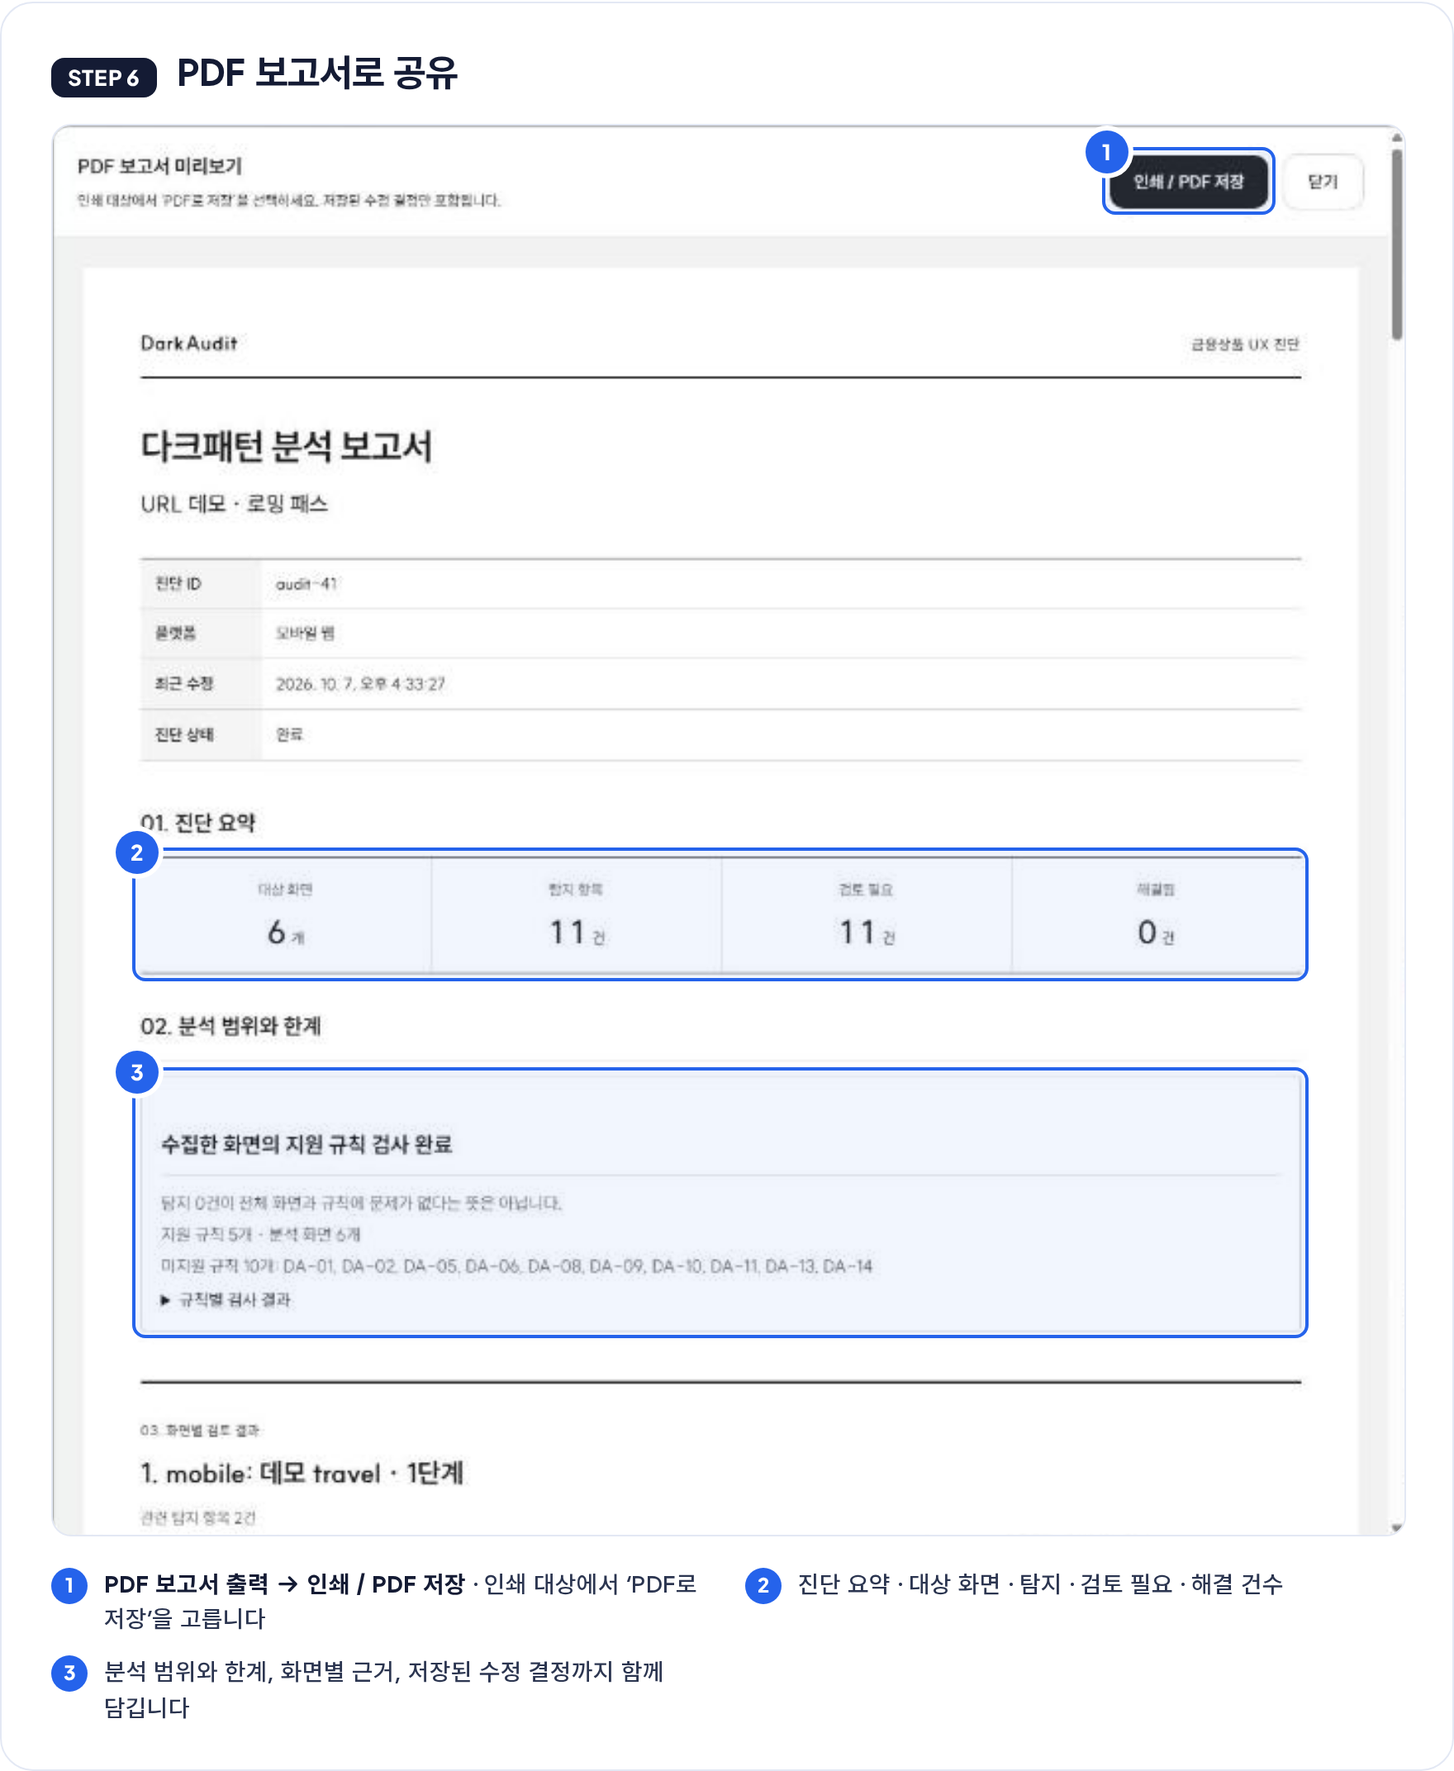
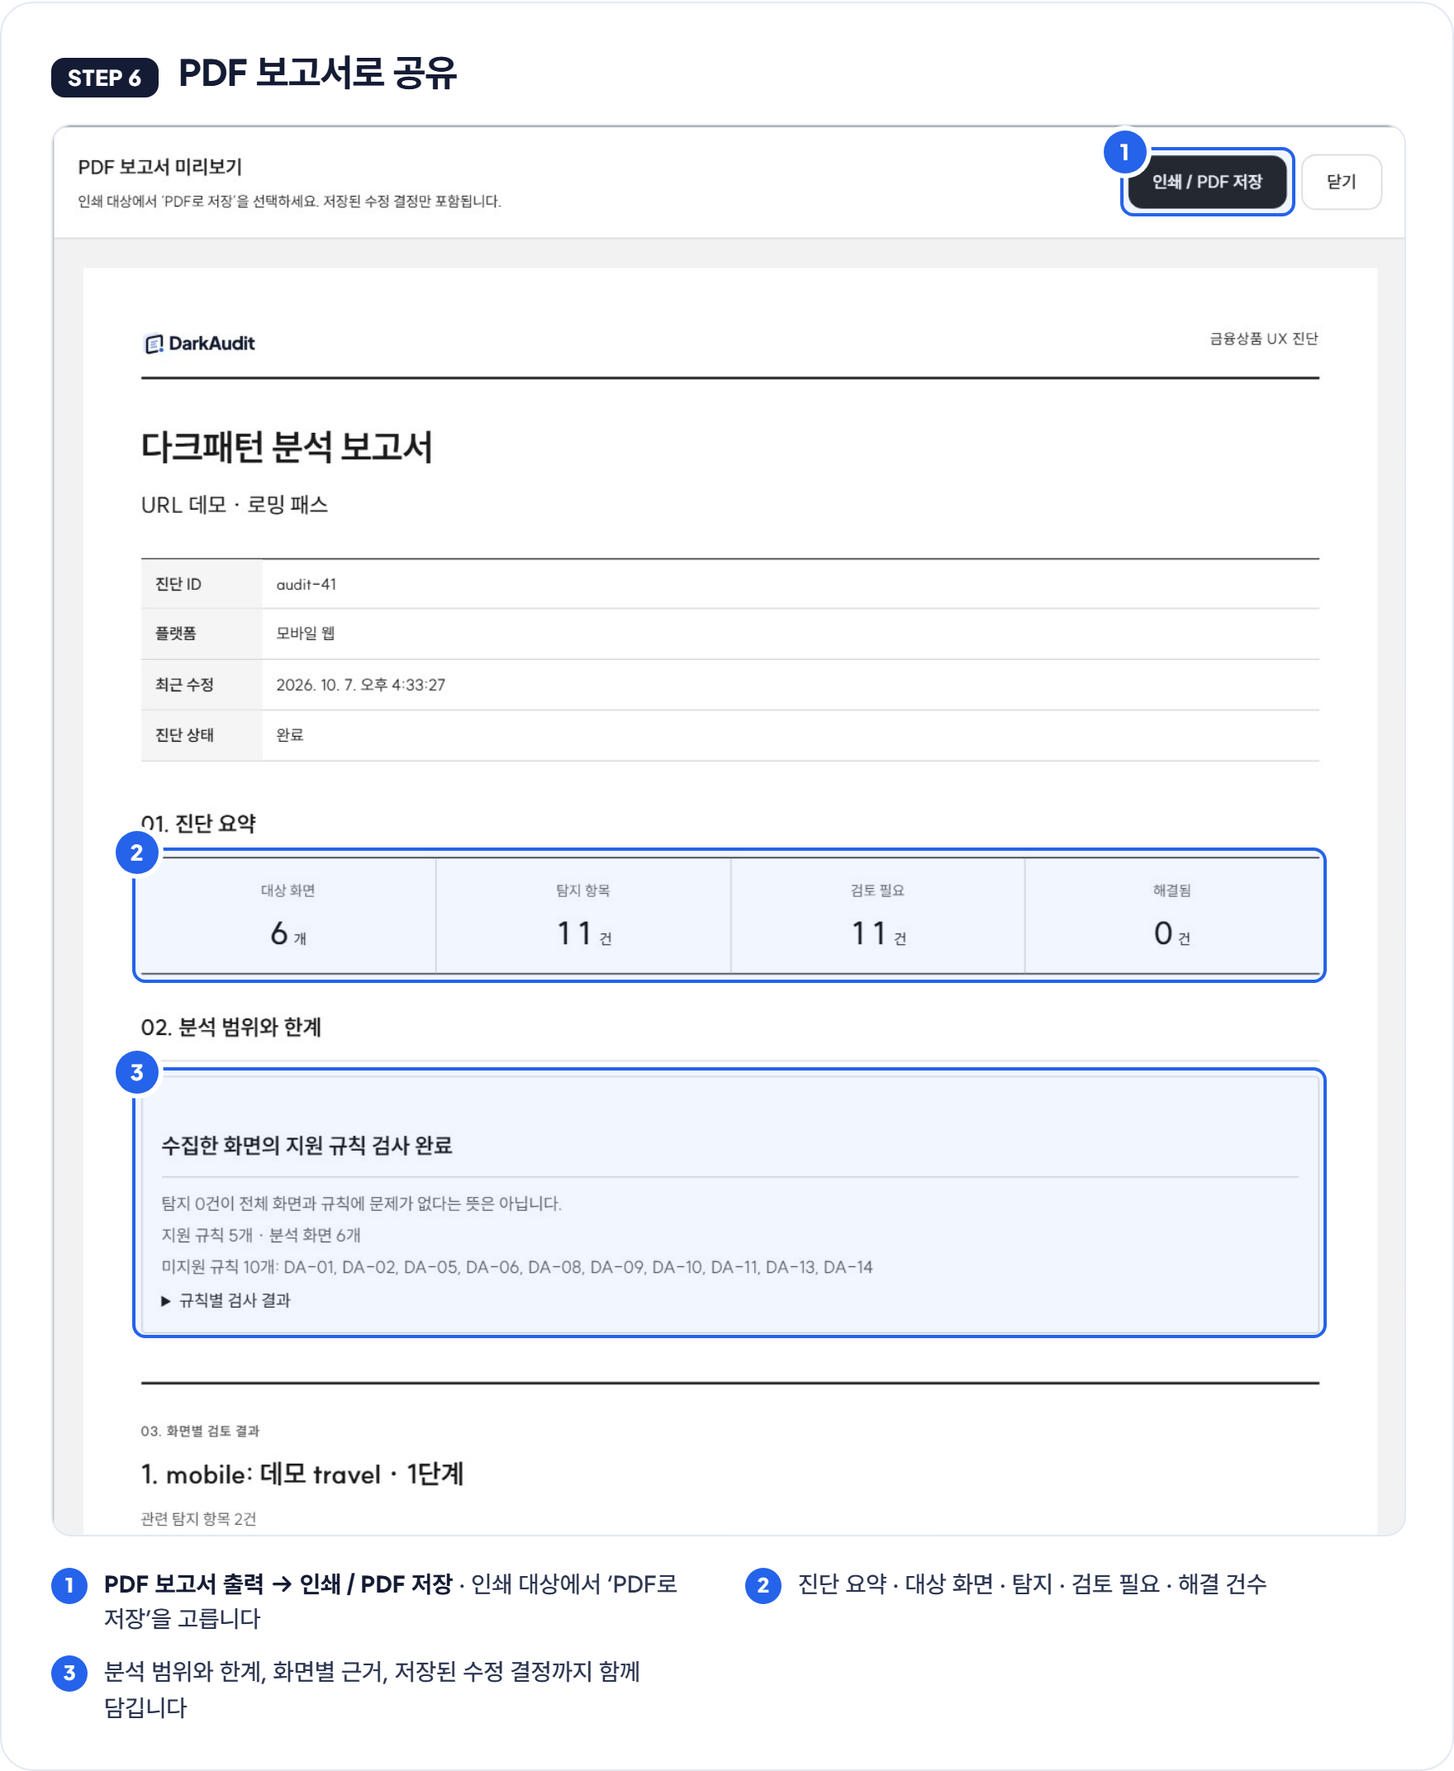
docs: README 첫 화면 순서를 바꾸고 STEP 6을 새 로고로 재캡처한다
- 첫 화면을 배너 → 버튼 → 기술 배지 → 문제와 해결 표 → NOTE 순으로 바꾼다.
- STEP 6 원본(shots/s6.jpg)을 배포 서비스 audit-41의 PDF 보고서 미리보기로
  같은 영역·2배율(3136x1556)로 다시 찍는다. 머리글에 새 로고가 보인다.
- 새 화면에 맞춰 steps.py의 s6 강조 박스 좌표만 고치고 step6.png를 다시 만든다.

diff --git a/docs/design/readme-assets/steps.html b/docs/design/readme-assets/steps.html
@@ -95,4 +95,4 @@ body{background:transparent;font-family:J,W,sans-serif;color:var(--navy);word-br
 .sh{display:flex;align-items:baseline;gap:12px;margin-bottom:16px}
 .sh .no{font-family:J;font-weight:800;font-size:13px;color:#fff;background:var(--navy);border-radius:8px;padding:4px 10px;letter-spacing:.04em}
 .sh .tt{font-family:W;font-weight:700;font-size:23px;letter-spacing:-0.02em}
-</style></head><body><section class="a st" id="step1"><div class="card"><div class="sh"><span class="no">STEP 1</span><span class="tt">새 진단 만들기</span></div><div class="shot" style="width:820px;height:668.1px"><img src="shots/s1.jpg" style="position:absolute;left:-455.6px;top:-60.7px;width:1587.4px;max-width:none"><div class="hl" style="left:11.1px;top:150.8px;width:793.7px;height:219.7px"><b>1</b></div><div class="hl" style="left:11.1px;top:395.8px;width:263.2px;height:260.2px"><b>2</b></div><div class="hl" style="left:312.8px;top:472.8px;width:471.8px;height:68.8px"><b>3</b></div></div><div class="notes"><div class="note"><i>1</i><span>처음이라면 <b>입력 유형별 데모 체험</b>으로 원본 검사 → 수정본 검사 → 전후 비교를 먼저 둘러보세요</span></div><div class="note"><i>2</i><span><b>진단 이름</b>과 <b>상품 유형</b>을 입력합니다 (예: 반려동물 보험 가입 화면 1차)</span></div><div class="note"><i>3</i><span>입력 방식을 고릅니다 · <b>웹사이트 · Figma · Android 앱 · 스크린샷</b></span></div></div></div></section><section class="a st" id="step2"><div class="card"><div class="sh"><span class="no">STEP 2</span><span class="tt">화면 등록하고 분석 시작</span></div><div class="shot" style="width:820px;height:713.7px"><img src="shots/s2.jpg" style="position:absolute;left:-455.6px;top:-20.2px;width:1587.4px;max-width:none"><div class="hl" style="left:667.1px;top:322.9px;width:113.4px;height:60.7px"><b>1</b></div><div class="hl" style="left:312.8px;top:516.3px;width:471.8px;height:128.6px"><b>2</b></div><div class="hl" style="left:687.4px;top:678.3px;width:117.4px;height:27.3px"><b>3</b></div></div><div class="notes"><div class="note"><i>1</i><span>스크린샷으로 점검할 때는 <b>스크린샷</b>을 선택합니다</span></div><div class="note"><i>2</i><span>가입 순서대로 <b>1~6장</b> 등록 · PNG·JPG·WEBP, 장당 10MB 이하 · 등록 후에는 순서를 바꿀 수 없어요</span></div><div class="note"><i>3</i><span><b>분석 시작하기</b>를 누르면 진행 화면에서 수집·분석 상태를 볼 수 있습니다</span></div></div></div></section><section class="a st" id="step3"><div class="card"><div class="sh"><span class="no">STEP 3</span><span class="tt">결과 요약 보기</span></div><div class="shot" style="width:820px;height:485.9px"><img src="shots/s3.jpg" style="position:absolute;left:-455.6px;top:-40.5px;width:1587.4px;max-width:none"><div class="hl" style="left:11.1px;top:119.5px;width:793.7px;height:42.5px"><b>1</b></div><div class="hl" style="left:11.1px;top:174.1px;width:793.7px;height:95.2px"><b>2</b></div><div class="hl" style="left:11.1px;top:283.5px;width:793.7px;height:60.7px"><b>3</b></div><div class="hl" style="left:11.1px;top:408.0px;width:793.7px;height:71.9px"><b>4</b></div></div><div class="notes"><div class="note"><i>1</i><span><b>원본 검사 → 수정본 검사 → 전후 비교</b> 순서로 진행 단계가 표시됩니다</span></div><div class="note"><i>2</i><span>검토 후보 · 검토 필요 · 해결 표시 · 등록 화면 수를 한눈에 확인</span></div><div class="note"><i>3</i><span><b>검사 범위와 추가 확인 사항</b>을 먼저 읽으세요 · 미지원 규칙과 근거 부족 항목이 여기 나옵니다</span></div><div class="note"><i>4</i><span>화면 흐름에서 화면을 고르면 그 화면의 후보만 볼 수 있습니다</span></div></div></div></section><section class="a st" id="step4"><div class="card"><div class="sh"><span class="no">STEP 4</span><span class="tt">화면 근거 확인하고 검토 기록 남기기</span></div><div class="shot" style="width:820px;height:653.0px"><img src="shots/s4.jpg" style="position:absolute;left:-455.6px;top:-91.1px;width:1587.4px;max-width:none"><div class="hl" style="left:109.3px;top:463.7px;width:218.7px;height:40.5px"><b>1</b></div><div class="hl" style="left:444.4px;top:224.7px;width:344.2px;height:143.8px"><b>2</b></div><div class="hl" style="left:444.4px;top:521.4px;width:344.2px;height:66.8px"><b>3</b></div><div class="hl" style="left:730.9px;top:166.0px;width:40.5px;height:24.3px"><b>4</b></div></div><div class="notes"><div class="note"><i>1</i><span>항목을 고르면 <b>화면 위 위치</b>가 강조됩니다</span></div><div class="note"><i>2</i><span><b>WHERE · OBSERVATION · RULE · WHY</b> · 어디서 무엇을 보고 어떤 기준으로 판단했는지</span></div><div class="note"><i>3</i><span><b>FIX</b> · 문구·선택 상태·정보 공개 방식을 어떻게 바꿀지 개선 권고안</span></div><div class="note"><i>4</i><span>처리 상태 <b>미검토 → 검토 중 → 해결됨</b>과 수정 결정 메모를 남깁니다</span></div></div></div></section><section class="a st" id="step5"><div class="card"><div class="sh"><span class="no">STEP 5</span><span class="tt">수정본 재검사</span></div><div class="shot" style="width:820px;height:556.8px"><img src="shots/s5.jpg" style="position:absolute;left:-455.6px;top:-40.5px;width:1587.4px;max-width:none"><div class="hl" style="left:277.4px;top:119.5px;width:261.2px;height:42.5px"><b>1</b></div><div class="hl" style="left:11.1px;top:187.3px;width:391.8px;height:292.6px"><b>2</b></div><div class="hl" style="left:414.0px;top:187.3px;width:390.8px;height:292.6px"><b>3</b></div><div class="hl" style="left:697.5px;top:502.1px;width:99.2px;height:34.4px"><b>4</b></div></div><div class="notes"><div class="note"><i>1</i><span>결과 화면에서 <b>수정본 검사</b> 탭을 엽니다</span></div><div class="note"><i>2</i><span>원본에서 찾은 항목이 유형별로 정리되어 있습니다</span></div><div class="note"><i>3</i><span>같은 순서·단계명으로 <b>수정본 화면</b>을 등록합니다</span></div><div class="note"><i>4</i><span><b>수정본 검사 시작</b> → 같은 진단에 새 회차로 저장되고, <b>전후 비교</b>에서 결과를 봅니다</span></div></div></div></section><section class="a st" id="step6"><div class="card"><div class="sh"><span class="no">STEP 6</span><span class="tt">PDF 보고서로 공유</span></div><div class="shot" style="width:820px;height:854.7px"><img src="shots/s6.jpg" style="position:absolute;left:-522.4px;top:-37.1px;width:1874.3px;max-width:none"><div class="hl" style="left:634.7px;top:13.1px;width:105.2px;height:40.6px"><b>1</b></div><div class="hl" style="left:47.8px;top:437.5px;width:712.4px;height:80.1px"><b>2</b></div><div class="hl" style="left:47.8px;top:570.2px;width:712.4px;height:163.8px"><b>3</b></div></div><div class="notes"><div class="note"><i>1</i><span><b>PDF 보고서 출력 → 인쇄 / PDF 저장</b> · 인쇄 대상에서 ‘PDF로 저장’을 고릅니다</span></div><div class="note"><i>2</i><span>진단 요약 · 대상 화면 · 탐지 · 검토 필요 · 해결 건수</span></div><div class="note"><i>3</i><span>분석 범위와 한계, 화면별 근거, 저장된 수정 결정까지 함께 담깁니다</span></div></div></div></section></body></html>
+</style></head><body><section class="a st" id="step1"><div class="card"><div class="sh"><span class="no">STEP 1</span><span class="tt">새 진단 만들기</span></div><div class="shot" style="width:820px;height:668.1px"><img src="shots/s1.jpg" style="position:absolute;left:-455.6px;top:-60.7px;width:1587.4px;max-width:none"><div class="hl" style="left:11.1px;top:150.8px;width:793.7px;height:219.7px"><b>1</b></div><div class="hl" style="left:11.1px;top:395.8px;width:263.2px;height:260.2px"><b>2</b></div><div class="hl" style="left:312.8px;top:472.8px;width:471.8px;height:68.8px"><b>3</b></div></div><div class="notes"><div class="note"><i>1</i><span>처음이라면 <b>입력 유형별 데모 체험</b>으로 원본 검사 → 수정본 검사 → 전후 비교를 먼저 둘러보세요</span></div><div class="note"><i>2</i><span><b>진단 이름</b>과 <b>상품 유형</b>을 입력합니다 (예: 반려동물 보험 가입 화면 1차)</span></div><div class="note"><i>3</i><span>입력 방식을 고릅니다 · <b>웹사이트 · Figma · Android 앱 · 스크린샷</b></span></div></div></div></section><section class="a st" id="step2"><div class="card"><div class="sh"><span class="no">STEP 2</span><span class="tt">화면 등록하고 분석 시작</span></div><div class="shot" style="width:820px;height:713.7px"><img src="shots/s2.jpg" style="position:absolute;left:-455.6px;top:-20.2px;width:1587.4px;max-width:none"><div class="hl" style="left:667.1px;top:322.9px;width:113.4px;height:60.7px"><b>1</b></div><div class="hl" style="left:312.8px;top:516.3px;width:471.8px;height:128.6px"><b>2</b></div><div class="hl" style="left:687.4px;top:678.3px;width:117.4px;height:27.3px"><b>3</b></div></div><div class="notes"><div class="note"><i>1</i><span>스크린샷으로 점검할 때는 <b>스크린샷</b>을 선택합니다</span></div><div class="note"><i>2</i><span>가입 순서대로 <b>1~6장</b> 등록 · PNG·JPG·WEBP, 장당 10MB 이하 · 등록 후에는 순서를 바꿀 수 없어요</span></div><div class="note"><i>3</i><span><b>분석 시작하기</b>를 누르면 진행 화면에서 수집·분석 상태를 볼 수 있습니다</span></div></div></div></section><section class="a st" id="step3"><div class="card"><div class="sh"><span class="no">STEP 3</span><span class="tt">결과 요약 보기</span></div><div class="shot" style="width:820px;height:485.9px"><img src="shots/s3.jpg" style="position:absolute;left:-455.6px;top:-40.5px;width:1587.4px;max-width:none"><div class="hl" style="left:11.1px;top:119.5px;width:793.7px;height:42.5px"><b>1</b></div><div class="hl" style="left:11.1px;top:174.1px;width:793.7px;height:95.2px"><b>2</b></div><div class="hl" style="left:11.1px;top:283.5px;width:793.7px;height:60.7px"><b>3</b></div><div class="hl" style="left:11.1px;top:408.0px;width:793.7px;height:71.9px"><b>4</b></div></div><div class="notes"><div class="note"><i>1</i><span><b>원본 검사 → 수정본 검사 → 전후 비교</b> 순서로 진행 단계가 표시됩니다</span></div><div class="note"><i>2</i><span>검토 후보 · 검토 필요 · 해결 표시 · 등록 화면 수를 한눈에 확인</span></div><div class="note"><i>3</i><span><b>검사 범위와 추가 확인 사항</b>을 먼저 읽으세요 · 미지원 규칙과 근거 부족 항목이 여기 나옵니다</span></div><div class="note"><i>4</i><span>화면 흐름에서 화면을 고르면 그 화면의 후보만 볼 수 있습니다</span></div></div></div></section><section class="a st" id="step4"><div class="card"><div class="sh"><span class="no">STEP 4</span><span class="tt">화면 근거 확인하고 검토 기록 남기기</span></div><div class="shot" style="width:820px;height:653.0px"><img src="shots/s4.jpg" style="position:absolute;left:-455.6px;top:-91.1px;width:1587.4px;max-width:none"><div class="hl" style="left:109.3px;top:463.7px;width:218.7px;height:40.5px"><b>1</b></div><div class="hl" style="left:444.4px;top:224.7px;width:344.2px;height:143.8px"><b>2</b></div><div class="hl" style="left:444.4px;top:521.4px;width:344.2px;height:66.8px"><b>3</b></div><div class="hl" style="left:730.9px;top:166.0px;width:40.5px;height:24.3px"><b>4</b></div></div><div class="notes"><div class="note"><i>1</i><span>항목을 고르면 <b>화면 위 위치</b>가 강조됩니다</span></div><div class="note"><i>2</i><span><b>WHERE · OBSERVATION · RULE · WHY</b> · 어디서 무엇을 보고 어떤 기준으로 판단했는지</span></div><div class="note"><i>3</i><span><b>FIX</b> · 문구·선택 상태·정보 공개 방식을 어떻게 바꿀지 개선 권고안</span></div><div class="note"><i>4</i><span>처리 상태 <b>미검토 → 검토 중 → 해결됨</b>과 수정 결정 메모를 남깁니다</span></div></div></div></section><section class="a st" id="step5"><div class="card"><div class="sh"><span class="no">STEP 5</span><span class="tt">수정본 재검사</span></div><div class="shot" style="width:820px;height:556.8px"><img src="shots/s5.jpg" style="position:absolute;left:-455.6px;top:-40.5px;width:1587.4px;max-width:none"><div class="hl" style="left:277.4px;top:119.5px;width:261.2px;height:42.5px"><b>1</b></div><div class="hl" style="left:11.1px;top:187.3px;width:391.8px;height:292.6px"><b>2</b></div><div class="hl" style="left:414.0px;top:187.3px;width:390.8px;height:292.6px"><b>3</b></div><div class="hl" style="left:697.5px;top:502.1px;width:99.2px;height:34.4px"><b>4</b></div></div><div class="notes"><div class="note"><i>1</i><span>결과 화면에서 <b>수정본 검사</b> 탭을 엽니다</span></div><div class="note"><i>2</i><span>원본에서 찾은 항목이 유형별로 정리되어 있습니다</span></div><div class="note"><i>3</i><span>같은 순서·단계명으로 <b>수정본 화면</b>을 등록합니다</span></div><div class="note"><i>4</i><span><b>수정본 검사 시작</b> → 같은 진단에 새 회차로 저장되고, <b>전후 비교</b>에서 결과를 봅니다</span></div></div></div></section><section class="a st" id="step6"><div class="card"><div class="sh"><span class="no">STEP 6</span><span class="tt">PDF 보고서로 공유</span></div><div class="shot" style="width:820px;height:854.7px"><img src="shots/s6.jpg" style="position:absolute;left:-522.4px;top:-37.1px;width:1874.3px;max-width:none"><div class="hl" style="left:645.5px;top:13.1px;width:106.4px;height:41.8px"><b>1</b></div><div class="hl" style="left:47.8px;top:437.5px;width:723.2px;height:81.3px"><b>2</b></div><div class="hl" style="left:47.8px;top:570.2px;width:723.2px;height:163.8px"><b>3</b></div></div><div class="notes"><div class="note"><i>1</i><span><b>PDF 보고서 출력 → 인쇄 / PDF 저장</b> · 인쇄 대상에서 ‘PDF로 저장’을 고릅니다</span></div><div class="note"><i>2</i><span>진단 요약 · 대상 화면 · 탐지 · 검토 필요 · 해결 건수</span></div><div class="note"><i>3</i><span>분석 범위와 한계, 화면별 근거, 저장된 수정 결정까지 함께 담깁니다</span></div></div></div></section></body></html>

diff --git a/docs/design/readme-assets/steps.py b/docs/design/readme-assets/steps.py
@@ -30,7 +30,7 @@ S=[
    "같은 순서·단계명으로 <b>수정본 화면</b>을 등록합니다",
    "<b>수정본 검사 시작</b> → 같은 진단에 새 회차로 저장되고, <b>전후 비교</b>에서 결과를 봅니다"]),
  ("s6",(437,31,1123,746),"PDF 보고서로 공유",
-  [(968,42,1056,76),(477,397,1073,464),(477,508,1073,645)],
+  [(977,42,1066,77),(477,397,1082,465),(477,508,1082,645)],
   ["<b>PDF 보고서 출력 → 인쇄 / PDF 저장</b> · 인쇄 대상에서 ‘PDF로 저장’을 고릅니다",
    "진단 요약 · 대상 화면 · 탐지 · 검토 필요 · 해결 건수",
    "분석 범위와 한계, 화면별 근거, 저장된 수정 결정까지 함께 담깁니다"]),

diff --git a/README.md b/README.md
@@ -2,12 +2,6 @@
   <img src="docs/images/readme/banner.png" alt="DarkAudit — 금융상품 가입 화면의 다크패턴을 출시 전에 찾아드립니다" width="880">
 </p>
 
-| 지금의 문제 | DarkAudit의 해결 |
-| --- | --- |
-| 「온라인 금융상품 판매 관련 다크패턴 가이드라인」이 2026년 4월 시행. 4개 범주 15개 유형을 화면마다 확인해야 함 | 15개 유형을 규칙으로 정리하고, 그중 5개 유형을 자동으로 찾아 화면 위 위치·근거·개선안을 제시 |
-| 여러 화면에 걸친 가입 흐름을 사람이 수작업으로 점검 | 스크린샷·URL·Figma·APK를 넣으면 흐름 전체를 한 번에 검사 |
-| 화면을 고칠 때마다 처음부터 다시 검토 | 같은 진단에 수정본을 올리면 해결·유지·신규·재발을 자동으로 비교 |
-
 <p align="center">
   <a href="https://dark-audit-seven.vercel.app"><img src="https://img.shields.io/badge/서비스_바로가기-2563EB?style=for-the-badge&logoColor=white" alt="서비스 바로가기"></a>
   <a href="docs/evaluation.md"><img src="https://img.shields.io/badge/평가_결과-141B34?style=for-the-badge" alt="평가 결과"></a>
@@ -21,6 +15,12 @@
   <img src="https://img.shields.io/badge/Playwright-2EAD33?style=flat-square&logo=playwright&logoColor=white">
   <img src="https://img.shields.io/badge/tests-428_passed-2563EB?style=flat-square">
 </p>
+
+| 지금의 문제 | DarkAudit의 해결 |
+| --- | --- |
+| 「온라인 금융상품 판매 관련 다크패턴 가이드라인」이 2026년 4월 시행. 4개 범주 15개 유형을 화면마다 확인해야 함 | 15개 유형을 규칙으로 정리하고, 그중 5개 유형을 자동으로 찾아 화면 위 위치·근거·개선안을 제시 |
+| 여러 화면에 걸친 가입 흐름을 사람이 수작업으로 점검 | 스크린샷·URL·Figma·APK를 넣으면 흐름 전체를 한 번에 검사 |
+| 화면을 고칠 때마다 처음부터 다시 검토 | 같은 진단에 수정본을 올리면 해결·유지·신규·재발을 자동으로 비교 |
 
 > [!NOTE]
 > DarkAudit은 법령 위반을 판정하지 않습니다. 금융위원회 「온라인 금융상품 판매 관련 다크패턴 가이드라인」 기준으로 **담당자가 검토해야 할 위험**을 출시 전에 찾아줍니다.
